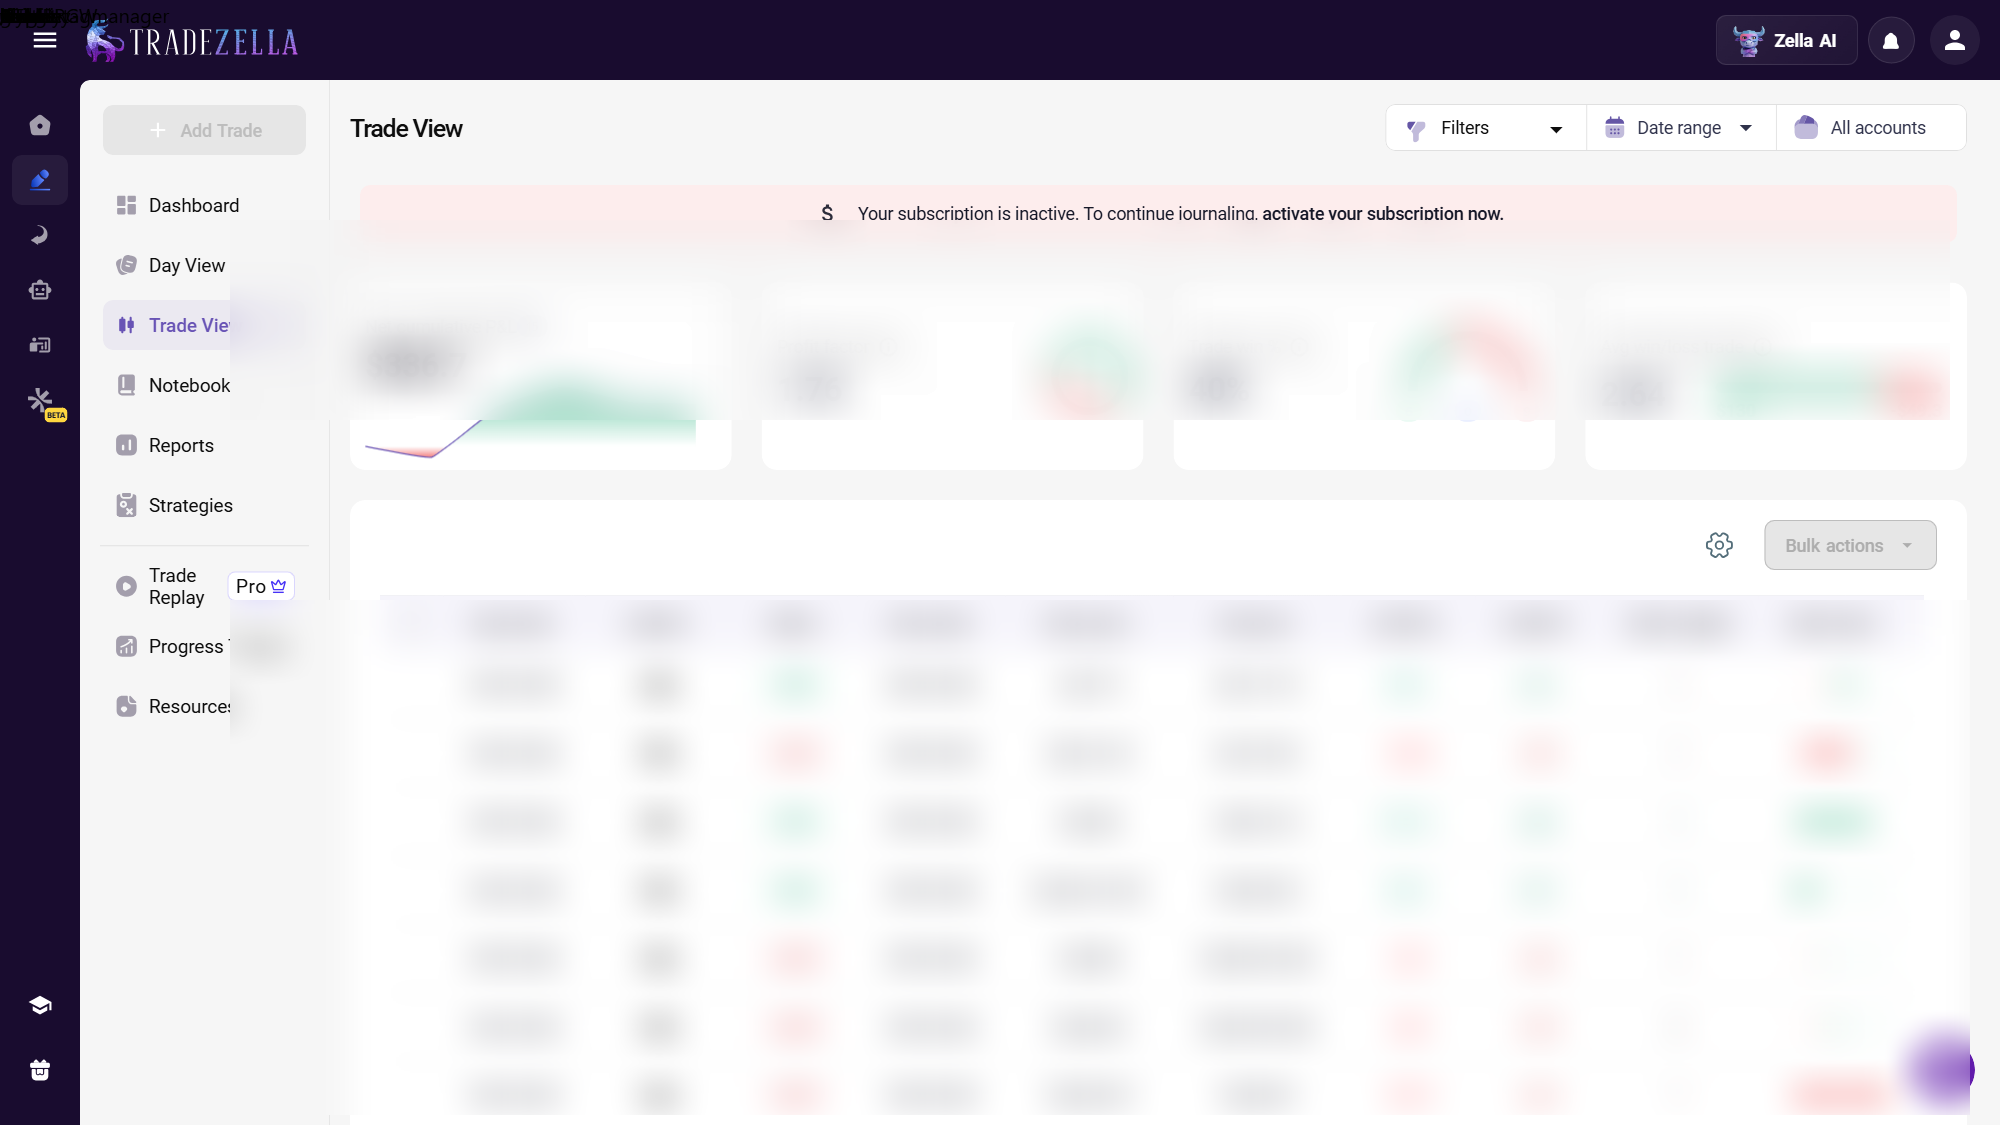
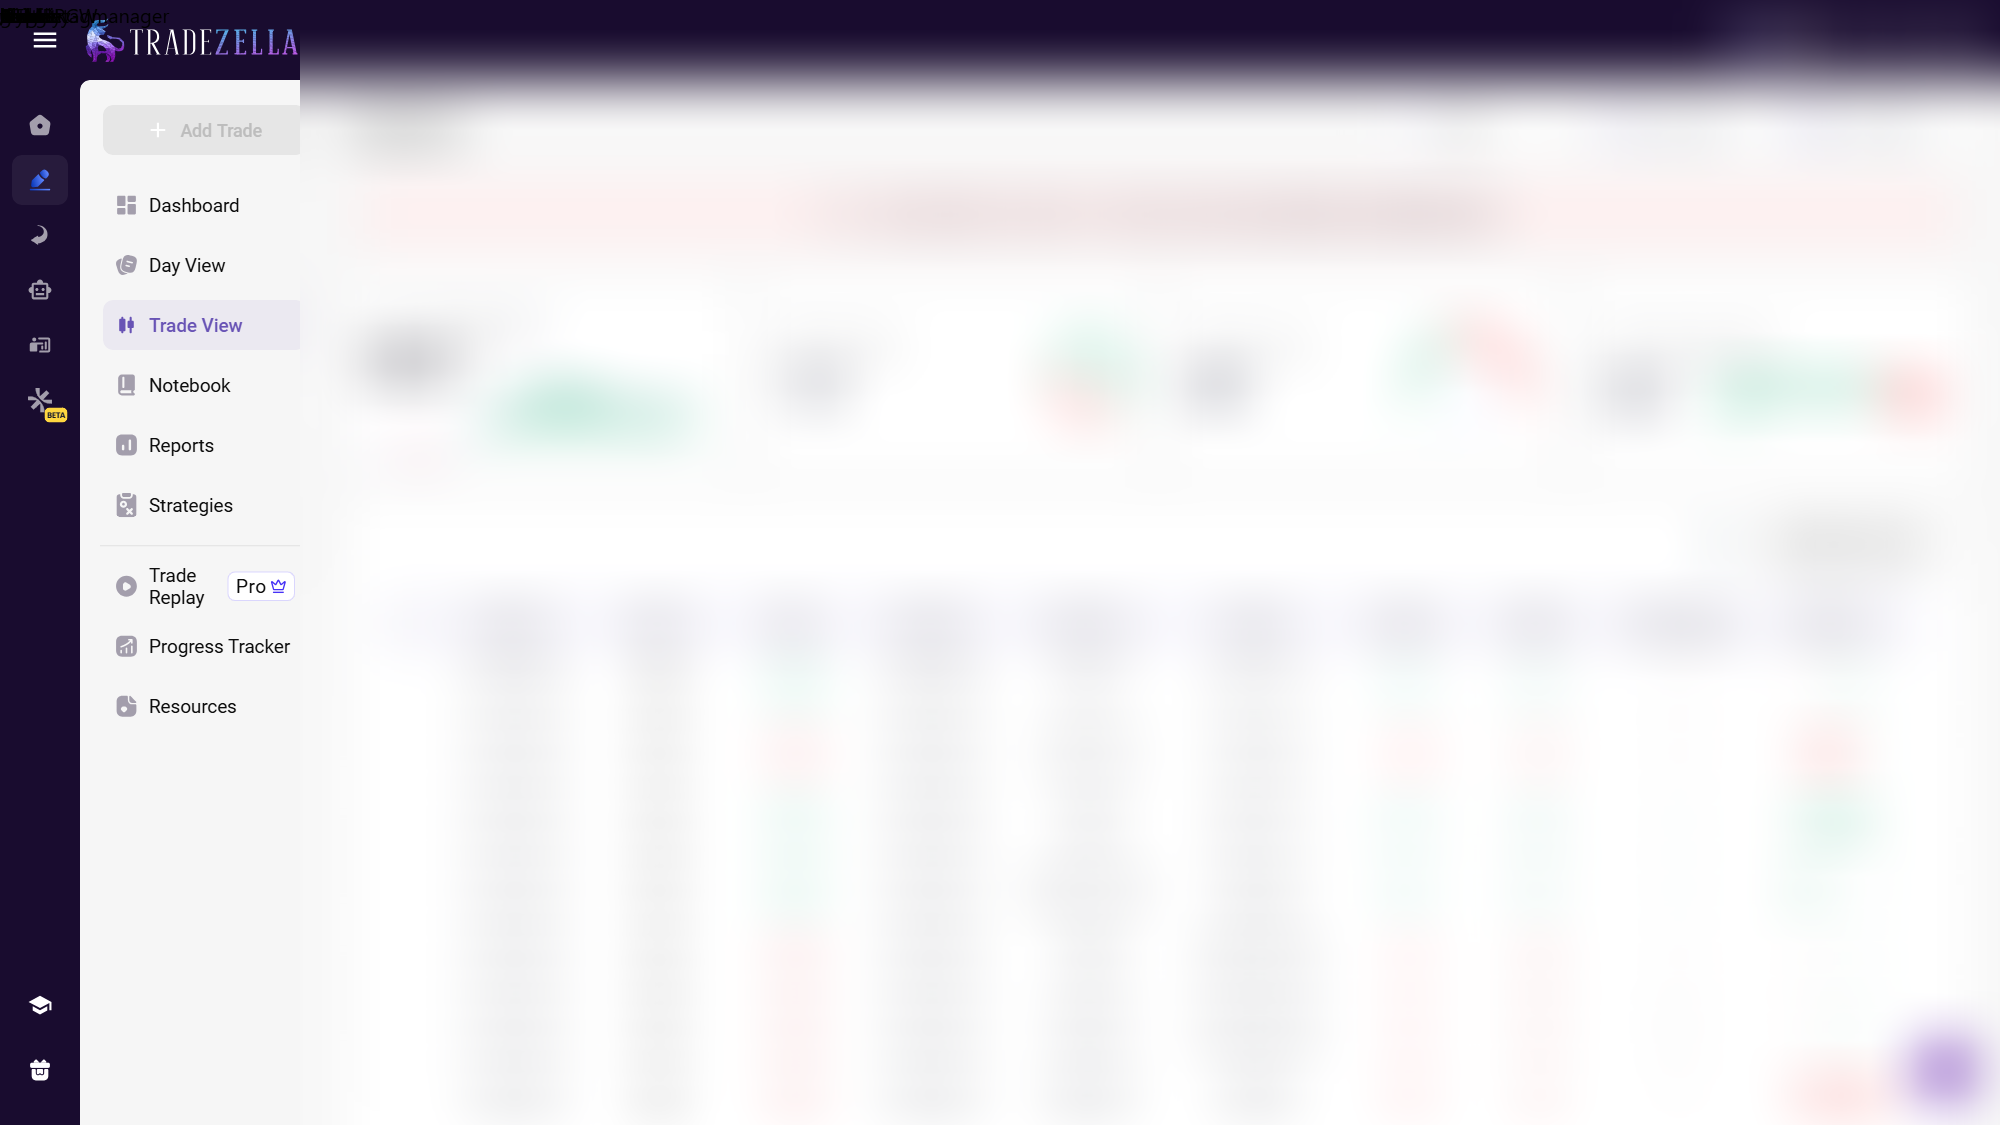
feat(import-guide): sidebar-only blur + zoom-in with gold arrow on Trade View
Slide 1 of the TradeZella HOW guide now shows two images:
- Main: full Trade View page with everything outside the sidebar blurred
  (sidebar nav stays fully readable so the user can match it to their screen)
- Zoom-in: gold dashed callout around the Trade View row + curved gold arrow
  + "Click here" chip — pinpoints exactly what to click

diff --git a/src/components/import/JournalExportGuide.tsx b/src/components/import/JournalExportGuide.tsx
@@ -17,6 +17,8 @@ interface GuideSlide {
   title: string;
   body: string;
   imageSrc?: string;
+  secondaryImageSrc?: string; // optional companion image (e.g. zoom-in with annotations)
+  secondaryCaption?: string;  // small label rendered above the secondary image
   mockup?: ReactNode;
 }
 
@@ -119,8 +121,10 @@ const GUIDES: Partial<Record<JournalSource, JournalGuide>> = {
       {
         kind: 'image',
         title: 'Step 1 — Open Trade View',
-        body: 'Log in to TradeZella and click "Trade View" in the left sidebar. You\'ll see all your trades in a table.',
+        body: 'Log in to TradeZella and click "Trade View" in the left sidebar. The zoom on the right shows exactly where to click.',
         imageSrc: '/import-guides/tradezella/01-trade-view.png',
+        secondaryImageSrc: '/import-guides/tradezella/01-trade-view-zoom.png',
+        secondaryCaption: 'Zoom in',
       },
       {
         kind: 'mockup',
@@ -258,11 +262,35 @@ export default function JournalExportGuide({ source, onClose }: Props) {
 
           <div className="rounded-xl bg-zinc-900/50 border border-zinc-800 p-4 flex items-center justify-center min-h-[260px]">
             {slide.kind === 'image' && slide.imageSrc && (
-              <img
-                src={slide.imageSrc}
-                alt={slide.title}
-                className="max-w-full max-h-[420px] rounded-lg border border-zinc-800/60"
-              />
+              slide.secondaryImageSrc ? (
+                // Side-by-side layout: blurred page on the left, zoom-in callout on the right.
+                // Stacks vertically on narrow viewports.
+                <div className="grid grid-cols-1 sm:grid-cols-[1.4fr_1fr] gap-4 w-full items-center">
+                  <img
+                    src={slide.imageSrc}
+                    alt={slide.title}
+                    className="w-full max-h-[420px] object-contain rounded-lg border border-zinc-800/60"
+                  />
+                  <div className="flex flex-col items-center gap-1.5">
+                    {slide.secondaryCaption && (
+                      <span className="text-[10px] uppercase tracking-widest text-[#C9A646]/80">
+                        {slide.secondaryCaption}
+                      </span>
+                    )}
+                    <img
+                      src={slide.secondaryImageSrc}
+                      alt={`${slide.title} — zoom`}
+                      className="w-full max-h-[420px] object-contain rounded-lg border border-[#C9A646]/30 shadow-[0_0_24px_rgba(201,166,70,0.15)]"
+                    />
+                  </div>
+                </div>
+              ) : (
+                <img
+                  src={slide.imageSrc}
+                  alt={slide.title}
+                  className="max-w-full max-h-[420px] rounded-lg border border-zinc-800/60"
+                />
+              )
             )}
             {slide.kind === 'mockup' && slide.mockup}
           </div>